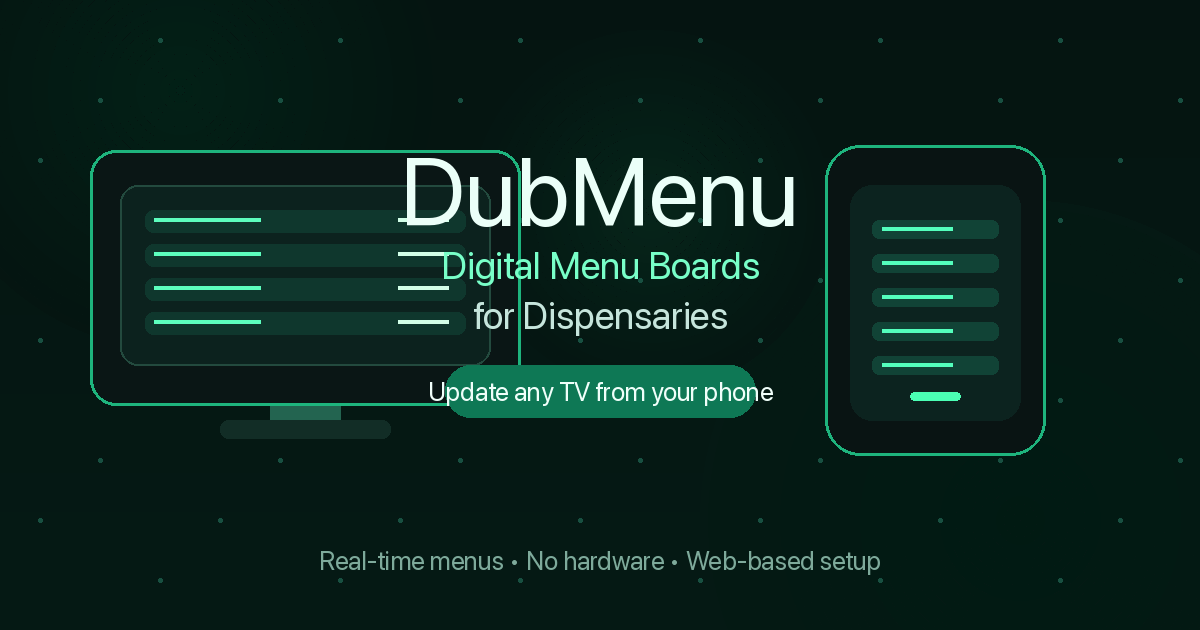
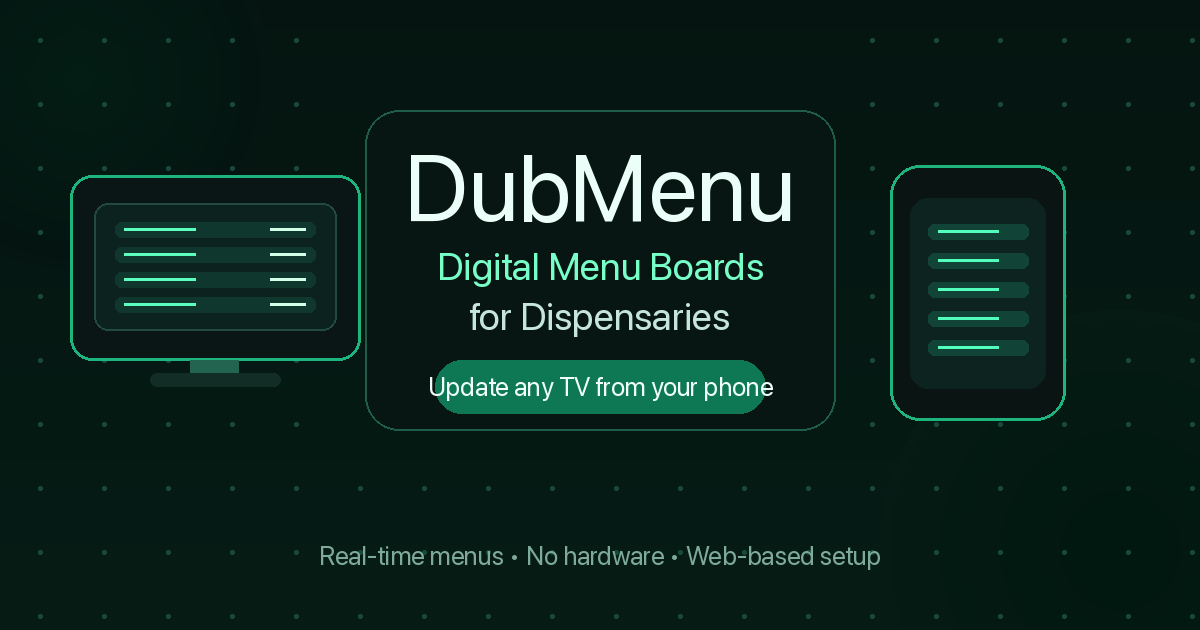
fix(seo): correct DubMenu social card schema

diff --git a/src/html-landing.ts b/src/html-landing.ts
@@ -36,18 +36,21 @@ export function landingPage(origin: string): string {
   <script type="application/ld+json">
   {
     "@context": "https://schema.org",
-    "@type": "Organization",
-    "name": "DubMenu",
-    "url": "${safeOrigin}/",
-    "logo": "${safeOrigin}/og-image.png",
-    "sameAs": [
-      "https://dubhaven.com"
-    ],
-    "mainEntityOfPage": {
-      "@type": "WebSite",
-      "name": "DubMenu",
-      "url": "${safeOrigin}/"
-    }
+    "@graph": [
+      {
+        "@type": "Organization",
+        "name": "DubMenu",
+        "url": "${safeOrigin}/",
+        "sameAs": [
+          "https://dubhaven.com"
+        ]
+      },
+      {
+        "@type": "WebSite",
+        "name": "DubMenu",
+        "url": "${safeOrigin}/"
+      }
+    ]
   }
   </script>
   <style>